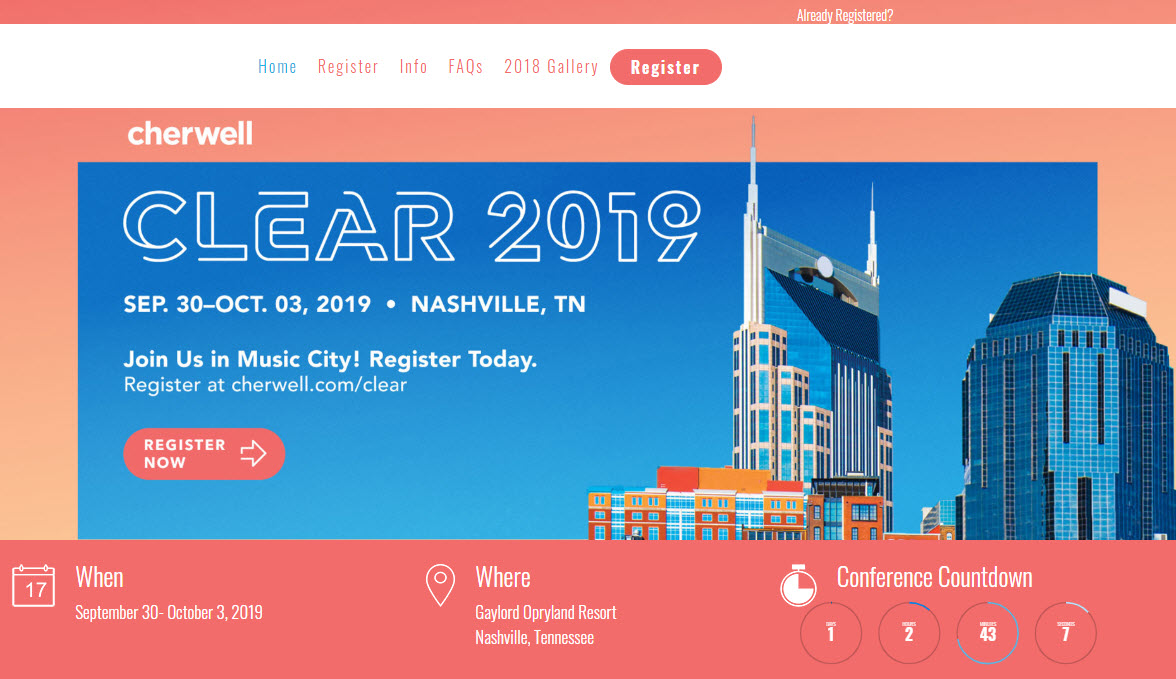
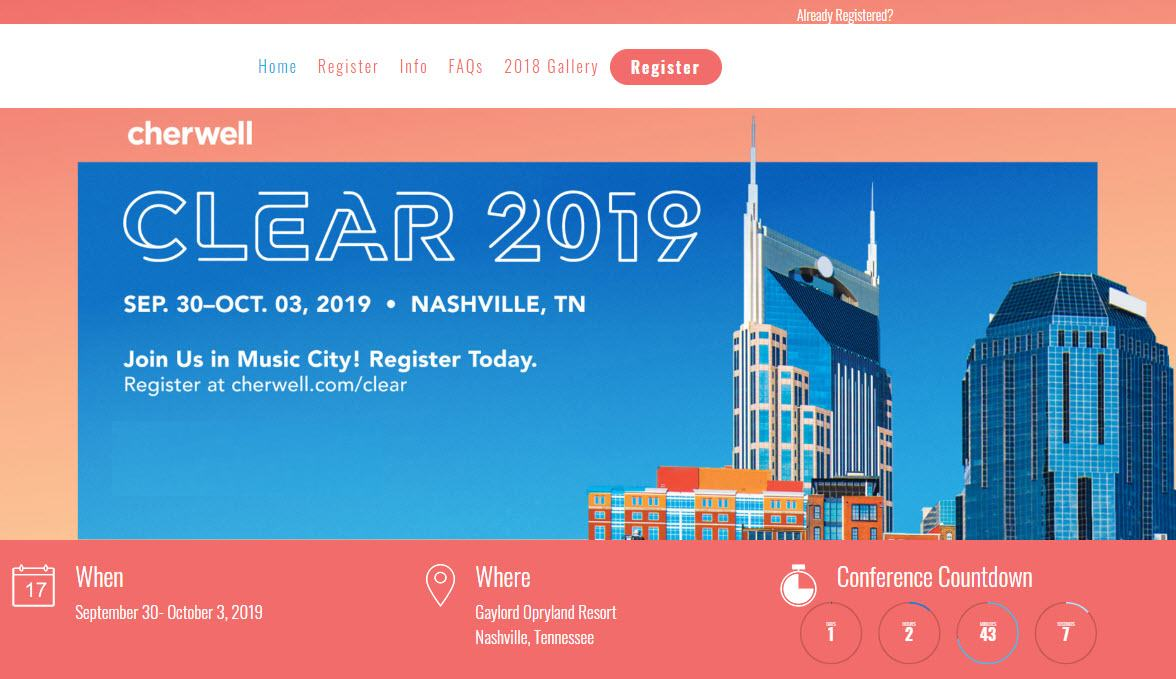
updated for Cherwell Clear
updated for Cherwell Clear

diff --git a/clear.html b/clear.html
@@ -23,34 +23,24 @@ body,h1,h2,h3,h4,h5,h6 {font-family: "Raleway", Arial, Helvetica, sans-serif}
 
 <!-- Navigation Bar -->
 <div class="w3-bar w3-white w3-border-bottom w3-xlarge">
-  <a href="https://www.w3schools.com/w3css/tryw3css_templates_travel2.htm#" class="w3-bar-item w3-button w3-text-red w3-hover-red"><b><i class="fa fa-map-marker w3-margin-right"></i>SabreDuty.com</b></a>
+  <a href="https://www.w3schools.com/w3css/tryw3css_templates_travel2.htm#" class="w3-bar-item w3-button w3-text-red w3-hover-red"><b><i class="fa fa-map-marker w3-margin-right"></i>Cherwell Duty.com</b></a>
   <a href="https://www.w3schools.com/w3css/tryw3css_templates_travel2.htm#" class="w3-bar-item w3-button w3-right w3-hover-red w3-text-grey"><i class="fa fa-search"></i></a>
 </div>
 
 <!-- Header -->
 <header class="w3-display-container w3-content w3-hide-small" style="max-width:1500px">
-  <img class="w3-image" src="./Online_Travel_Site1_files/sabre_header1.jpg" alt="Sabre" width="1400" height="600">
-  <div class="w3-padding w3-display-bottommiddle" style="width:55%">
+  <img class="w3-image" src="./Online_Travel_Site1_files/clear_background.jpg" alt="Cherwell" width="1400" height="600">
+  <div class="w3-padding w3-display-bottommiddle" style="width:30%">
     <div class="w3-bar w3-black">
-      <button class="w3-bar-item w3-button tablink w3-red" onclick="openLink(event, &#39;Flight&#39;);"><i class="fa fa-plane w3-margin-right"></i>Flight</button>
+      <button class="w3-bar-item w3-button tablink w3-white" onclick="openLink(event, &#39;Flight&#39;);"><i class="fa fa-plane w3-margin-right"></i>Flight</button>
       <button class="w3-bar-item w3-button tablink" onclick="openLink(event, &#39;Hotel&#39;);"><i class="fa fa-bed w3-margin-right"></i>Hotel</button>
       <button class="w3-bar-item w3-button tablink" onclick="openLink(event, &#39;Car&#39;);"><i class="fa fa-car w3-margin-right"></i>Rental</button>
     </div>
 
     <!-- Tabs -->
     <div id="Flight" class="w3-container w3-white w3-padding-16 myLink" style="display: block;">
-      <h3>Travel the world with us</h3>
-      <div class="w3-row-padding" style="margin:0 -16px;">
-        <div class="w3-half">
-          <label>From</label>
-          <input class="w3-input w3-border" type="text" placeholder="Departing from">
-        </div>
-        <div class="w3-half">
-          <label>To</label>
-          <input class="w3-input w3-border" type="text" placeholder="Arriving at">
-        </div>
-      </div>
-      <p><button class="w3-button w3-dark-grey" onclick="loginErrExample('Login');return(false);">Search and find dates</button></p>
+      <h3>Register for the event</h3>
+            <p><button class="w3-button w3-dark-grey" onclick="loginErrExample('Login');return(false);">Register</button></p>
     </div>
 
     <div id="Hotel" class="w3-container w3-white w3-padding-16 myLink" style="display: none;">
@@ -72,75 +62,6 @@ body,h1,h2,h3,h4,h5,h6 {font-family: "Raleway", Arial, Helvetica, sans-serif}
 <!-- Page content -->
 <div class="w3-content" style="max-width:1100px;">
 
-  <!-- Good offers -->
-  <div class="w3-container w3-margin-top">
-    <h3>Sabre</h3>
-    <h6>Sabre and <strong>Visa to expand B2B</strong> payments for the travel industry</h6>
-  </div>
-  <div class="w3-row-padding w3-text-white w3-large">
-    <div class="w3-half w3-margin-bottom">
-      <div class="w3-display-container">
-        <img src="./Online_Travel_Site1_files/cinqueterre.jpg" alt="Cinque Terre" style="width:100%">
-        <span class="w3-display-bottomleft w3-padding">Cinque Terre</span>
-      </div>
-    </div>
-    <div class="w3-half">
-      <div class="w3-row-padding" style="margin:0 -16px">
-        <div class="w3-half w3-margin-bottom">
-          <div class="w3-display-container">
-            <img src="./Online_Travel_Site1_files/newyork2.jpg" alt="New York" style="width:100%">
-            <span class="w3-display-bottomleft w3-padding">New York</span>
-          </div>
-        </div>
-        <div class="w3-half w3-margin-bottom">
-          <div class="w3-display-container">
-            <img src="./Online_Travel_Site1_files/sanfran.jpg" alt="San Francisco" style="width:100%">
-            <span class="w3-display-bottomleft w3-padding">San Francisco</span>
-          </div>
-        </div>
-      </div>
-      <div class="w3-row-padding" style="margin:0 -16px">
-        <div class="w3-half w3-margin-bottom">
-          <div class="w3-display-container">
-            <img src="./Online_Travel_Site1_files/pisa.jpg" alt="Pisa" style="width:100%">
-            <span class="w3-display-bottomleft w3-padding">Pisa</span>
-          </div>
-        </div>
-        <div class="w3-half w3-margin-bottom">
-          <div class="w3-display-container">
-            <img src="./Online_Travel_Site1_files/paris.jpg" alt="Paris" style="width:100%">
-            <span class="w3-display-bottomleft w3-padding">Paris</span>
-          </div>
-        </div>
-      </div>
-    </div>
-  </div>
-
-  <!-- Explore Nature -->
-  <div class="w3-container">
-    <h3>Explore Nature</h3>
-    <p>Travel with us and see nature at its finest.</p>
-  </div>
-  <div class="w3-row-padding">
-    <div class="w3-half w3-margin-bottom">
-      <img src="./Online_Travel_Site1_files/ocean2.jpg" alt="Norway" style="width:100%">
-      <div class="w3-container w3-white">
-        <h3>West Coast, Norway</h3>
-        <p class="w3-opacity">Roundtrip from $79</p>
-        <p>Praesent tincidunt sed tellus ut rutrum sed vitae justo.</p>
-        <button class="w3-button w3-margin-bottom">Buy Tickets</button>
-      </div>
-    </div>
-    <div class="w3-half w3-margin-bottom">
-      <img src="./Online_Travel_Site1_files/mountains2.jpg" alt="Austria" style="width:100%">
-      <div class="w3-container w3-white">
-        <h3>Mountains, Austria</h3>
-        <p class="w3-opacity">One-way from $39</p>
-        <p>Praesent tincidunt sed tellus ut rutrum sed vitae justo.</p>
-        <button class="w3-button w3-margin-bottom">Buy Tickets</button>
-      </div>
-    </div>
-  </div>
 
   <!-- Newsletter -->
   <div class="w3-container">
@@ -233,7 +154,7 @@ document.getElementsByClassName("tablink")[0].click();
         function loginErrExample() {
             //alert('In loginErrExample');
           var serviceKey = getParameterByName('service_key');
-          if (!serviceKey) serviceKey = "25c7766eede1452ca427a2cd12a6d457"; /*ML service key*/
+          if (!serviceKey) serviceKey = "62cc79716eeb4d1fbaa1950e67cde29a"; /*ML service key*/
          /* var x = document.getElementById("checkoutError");
           x.style.display = "none";
           document.getElementById("checkoutButton").innerHTML = "Working";*/
@@ -285,15 +206,15 @@ document.getElementsByClassName("tablink")[0].click();
           ' } ' +
           ' ], ' +
         ' "details": { ' +
-          ' "body": "[Critical] API500 errors across all PROD sites, High Error rates <br/> Object Reference Not Set and ADO.NET Connection pool exceeded errors detected" , ' +
+          ' "body": "[Critical] API500 errors across Registration sites, High Error rates <br/> Object Reference Not Set and ADO.NET Connection pool exceeded errors detected" , ' +
           ' "Order Value": ' + orderValue + ', ' +
           ' "priority": "High", ' +
-          ' "title": "[Critical] API500 errors across all PROD sites, High Error rates", ' +
+          ' "title": "[Critical] API500 errors across Registration sites, High Error rates", ' +
           ' "event_id": "8125363154448140714", ' +
           ' "tags": "aws-prod, base, env:prod, host:farnsworth, monitor, pd_az:us-west-2c, production, xdb, xtradb", ' +
           ' "Customer": "'+ customerName + '" ' +
           ' }, ' +
-        ' "description": "[Critical] API500 errors across all PROD sites: unexpected server response" ' +
+        ' "description": "[Critical] API500 errors across Registration sites, High Error rates" ' +
         '}'
        // alert('part 1 ' + eventObject);
         console.log(eventObject)
@@ -305,7 +226,7 @@ document.getElementsByClassName("tablink")[0].click();
           //  "data":  eventObject,
           //  "headers": {
           //    "Accept": "application/vnd.pagerduty+json;version=2",
-          //    "Authorization": "Token token=25c7766eede1452ca427a2cd12a6d457",
+          //    "Authorization": "Token token=62cc79716eeb4d1fbaa1950e67cde29a",
           //  }
           //};
           //$.ajax(settings).done(function (response) {
@@ -327,7 +248,7 @@ document.getElementsByClassName("tablink")[0].click();
             .done(function( msg ) {
              // alert( "Hello: " + msg );
           });
-          alert('Error searching Sabre.com')
+          alert('Error Registering at Clear Conference')
           return false;
         }
         </script>
